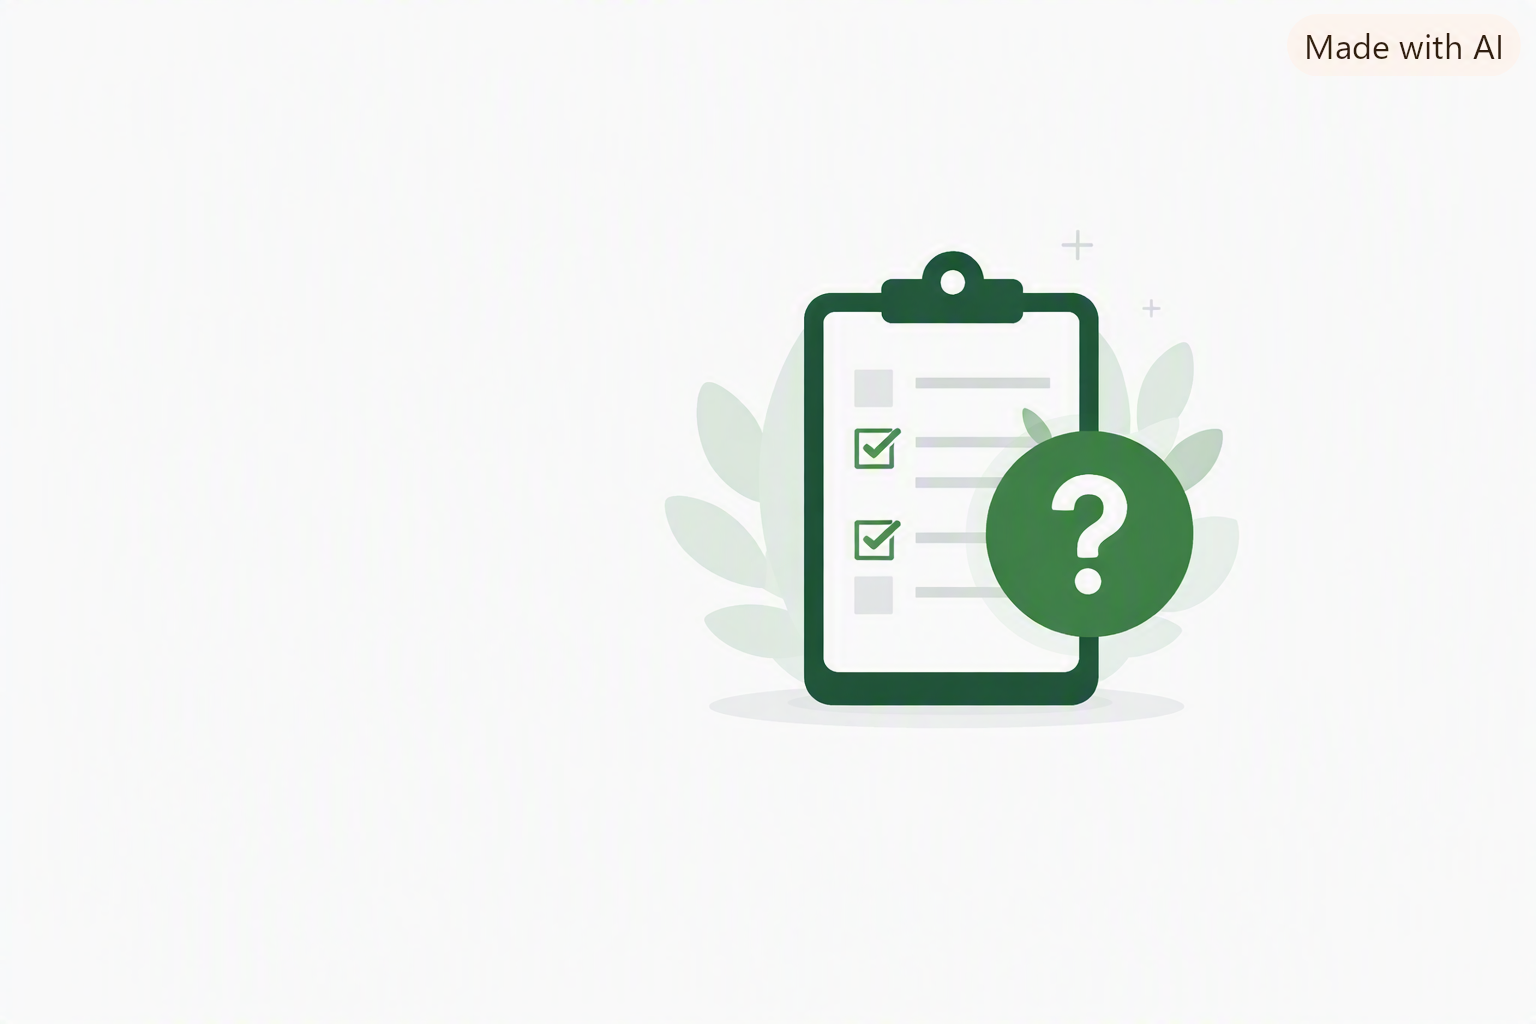
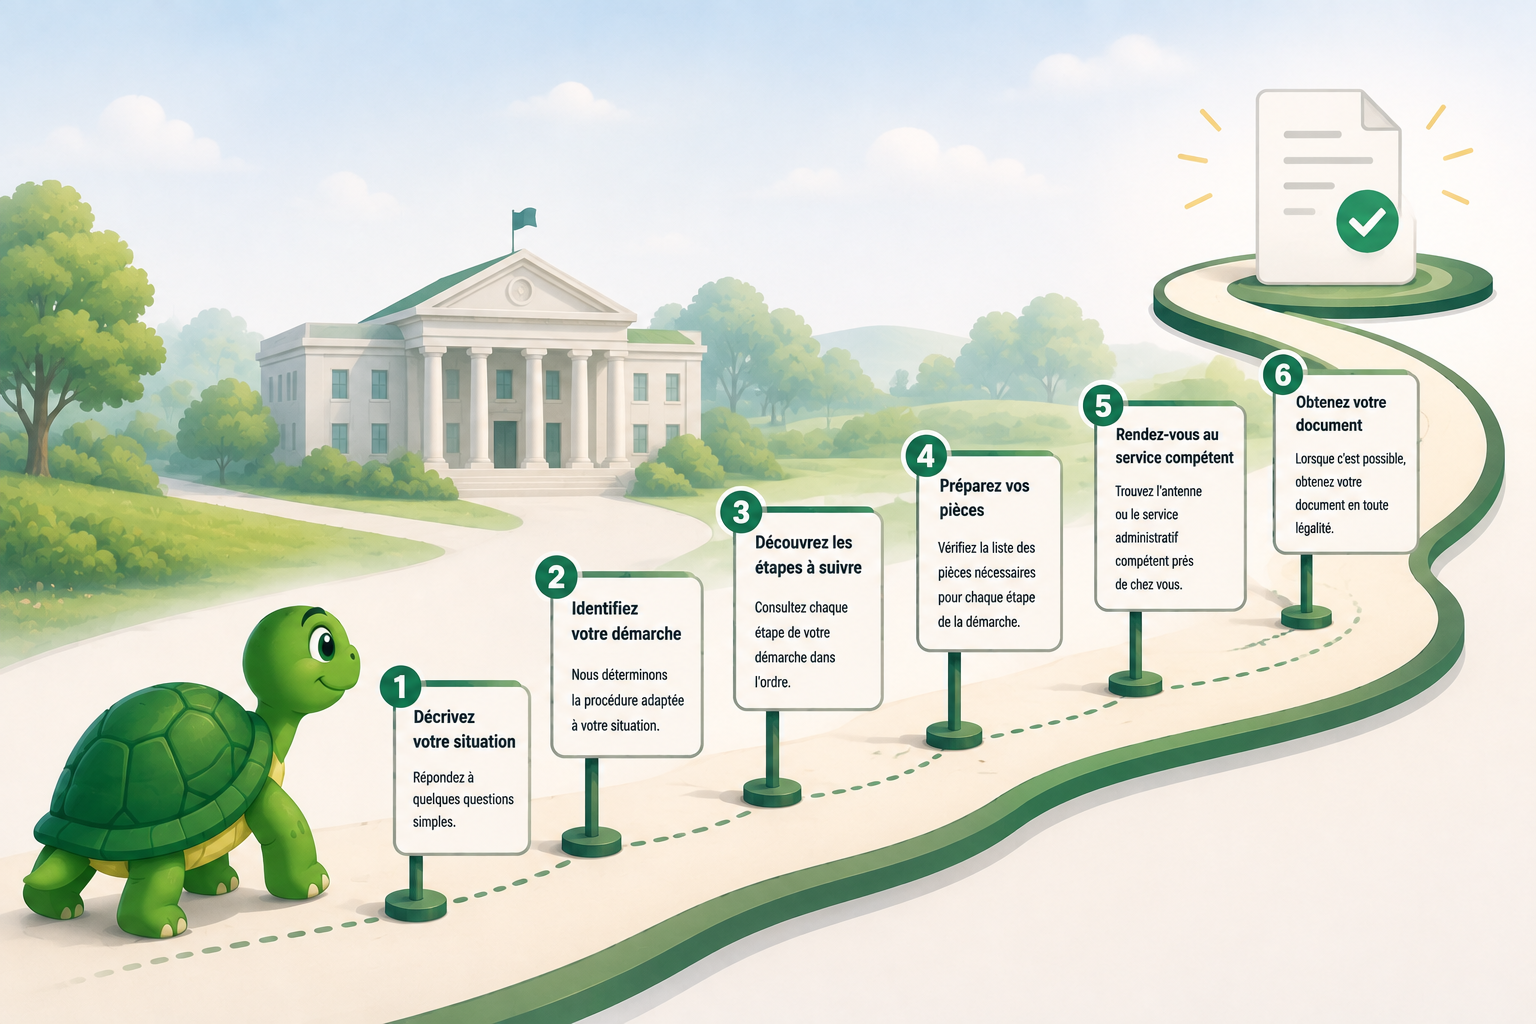
Add Hero section and Bottom Navigation Bar

diff --git a/src/app/(client)/_components/Home/Hero.tsx b/src/app/(client)/_components/Home/Hero.tsx
@@ -2,45 +2,38 @@ import { ArrowRight } from "lucide-react";
 import Image from "next/image";
 import hero_img from "../../../../assets/images/hero.png";
 import Link from "next/link";
-import HowDoesItWork from "./HowDoesItWork";
 import { Hero_infos } from "@/data/GlobalData";
 
 export default function Hero() {
   return (
-    <div className="flex w-full">
-      <div className="wrapper min-h-screen p-2 flex flex-col gap-4">
-        {/* Image */}
-        <div className="relative w-full flex flex-col md:flex-row">
-          {/* Text */}
-          <div className="flex flex-col gap-5 items-start w-full lg:max-w-md h-full lg:ml-15 justify-center max-md:absolute z-20 md:bg-transparent bg-turtle-bg/85">
-            <span className="mb-1 text-4xl">
-              <h1 className="font-semibold text-5xl">{Hero_infos.title}</h1>
-              <h2 className="text-turtle-accent font-semibold">
-                {Hero_infos.subtitle}
-              </h2>
-            </span>
-            <p className="text-base max-w-md">{Hero_infos.description}</p>
-            <Link
-              href={Hero_infos.link.href}
-              className="btn btn-accent w-40 gap-3 text-base"
-            >
-              {Hero_infos.link.label} <ArrowRight className="size-5" />
-            </Link>
-          </div>
-          {/* Image */}
-          <div className="relative w-full h-100">
-            <Image
-              src={hero_img}
-              alt="Hero image"
-              loading="eager"
-              className="object-cover w-full h-full"
-            />
-          </div>
+    <section className="flex relative w-full max-h-screen min-[500px]:h-[80vh] h-[70vh]">
+      <div className="wrapper flex w-full h-full py-5 bg-linear-360 from-secondary to-transparent">
+        {/* Text */}
+        <div className="flex flex-col gap-5 items-start w-full lg:max-w-md h-full justify-center max-w-sm">
+          <span className="mb-1 text-[32px] min-[500px]:text-[40px] md:text-4xl">
+            <h1 className="font-semibold text-5xl min-[500px]:text-6xl">{Hero_infos.title}</h1>
+            <h2 className="text-brand-green-text font-semibold">
+              {Hero_infos.subtitle}
+            </h2>
+          </span>
+          <p className="min-[500px]:text-lg max-w-sm sm:max-w-md">{Hero_infos.description}</p>
+          <Link
+            href={Hero_infos.link.href}
+            className="btn btn-primary w-40 gap-3 text-base"
+          >
+            {Hero_infos.link.label} <ArrowRight className="size-5" />
+          </Link>
         </div>
-
-        {/* How does it work */}
-        <HowDoesItWork />
       </div>
-    </div>
+        {/* Image */}
+        <div className="absolute -z-10 w-full h-full">
+          <Image
+            src={hero_img}
+            alt="Hero image"
+            loading="eager"
+            className="object-cover w-full h-full"
+          />
+        </div>
+    </section>
   );
 }

diff --git a/src/components/shared/BottomNav.tsx b/src/components/shared/BottomNav.tsx
@@ -1,48 +1,23 @@
 "use client";
-import { BellRing, Folder, Home, Info, LucideIcon } from "lucide-react";
+import { links } from "@/data/GlobalData";
+import { LucideIcon } from "lucide-react";
 import Link from "next/link";
-import { useState } from "react";
-
-const datas = [
-  {
-    icon: Home,
-    label: "Accueil",
-    href: "/",
-  },
-  {
-    icon: Folder,
-    label: "Dossiers",
-    href: "/",
-  },
-  {
-    icon: BellRing,
-    label: "Alertes",
-    href: "/",
-  },
-  {
-    icon: Info,
-    label: "À propos",
-    href: "/",
-  },
-];
+import { usePathname } from "next/navigation";
 
 export default function BottomNav() {
   // ! States
-  const [isActive, setIsActive] = useState("Accueil");
+  const pathName = usePathname();
   return (
-    <footer className="fixed md:hidden bottom-0 inset-x-0 bg-turtle-bg border border-turtle-border pt-2 h-15 flex">
-      <div className="wrapper grid grid-cols-4 max-md:w-full gap-2 px-2">
-        {datas.map((link, index) => (
+    <footer className="fixed md:hidden bottom-0 w-full bg-secondary h-18 wrapper grid grid-cols-3 min-[500px]:gap-2 place-items-center">
+        {links.map((link, index) => (
           <Link_
             key={index}
             href={link.href}
             label={link.label}
             icon={link.icon}
-            isActive={isActive}
-            onClick={(car) => setIsActive(car)}
+            pathName={pathName}
           />
         ))}
-      </div>
     </footer>
   );
 }
@@ -51,23 +26,20 @@ const Link_ = ({
   href,
   label,
   icon: Icon,
-  isActive,
-  onClick,
+  pathName,
 }: {
   href: string;
   label: string;
   icon: LucideIcon;
-  isActive: string;
-  onClick: (car: string) => void;
+  pathName: string;
 }) => {
   return (
     <Link
-      onClick={() => onClick(label)}
       href={href}
-      className={`${isActive === label ? "bg-turtle-primary/80 text-white -translate-y-6 pb-3 font-bold rounded-t-4xl p-2" : ""} flex flex-col items-center transition-transform duration-300 ease-in-out`}
+      className={`${pathName === href ? "text-primary *:fill-primary border-t-2 border-primary py-2 font-bold" : "hover:text-primary hover:*:fill-primary hover:border-t-2 border-primary py-2 font-bold"} transition-all duration-300 flex flex-col items-center ease-in-out`}
     >
       <Icon className={`size-7`} />
-      <h3>{label}</h3>
+      <p>{label}</p>
     </Link>
   );
 };

diff --git a/src/components/layout/Header.tsx b/src/components/layout/Header.tsx
@@ -6,17 +6,17 @@ import { NavBar } from "../shared/NavBar";
 
 export default function Header() {
   return (
-    <header className="w-full flex p-4 sticky top-0 z-50 bg-primary backdrop-blur-md max-h-18 overflow-hidden text-muted">
+    <header className="w-full flex py-4 sticky top-0 z-50 bg-primary backdrop-blur-md max-h-18 overflow-hidden text-muted">
       <div className="wrapper w-full flex justify-between">
         {/* Logo */}
         <Link
           href="/"
           className="flex gap-1 lg:gap-2 items-center font-heading"
         >
-          <Image src={Turtle} alt="Logo TurtleGuide" className="w-8 lg:w-12 h-7 lg:h-11" />
+          <Image src={Turtle} alt="Logo TurtleGuide" className="w-10 lg:w-12 h-9 lg:h-11" />
           <span className="flex flex-col leading-5 text-xs lg:text-sm">
             <h1 className="text-xl md:text-[20px] lg:text-[26px] font-bold">TurtleGuide</h1>
-            <p className="text-sm">Votre guide pour chaque demarche</p>
+            <p className="text-xs sm:text-sm">Votre guide pour chaque demarche</p>
           </span>
         </Link>
 

diff --git a/src/components/layout/Footer.tsx b/src/components/layout/Footer.tsx
@@ -2,8 +2,8 @@ import Link from "next/link";
 
 export default function Footer() {
   return (
-    <footer className="flex justify-center py-4 md:mb-0 mb-5 mt-auto border-t border-turtle-border bg-secondary">
-      <div className="wrapper flex gap-2 flex-col justify-between items-center text-turtle-text-muted text-xs text-nowrap">
+    <footer className="flex justify-center py-4 md:mb-0 mb-17 mt-auto border-t border-turtle-border bg-secondary">
+      <div className="wrapper flex gap-2 flex-col justify-between items-center text-turtle-text-muted text-xs">
         <p>
           TurtleGuide. vous guide pour chaque démarche administrative au
           cameroun.

diff --git a/src/components/shared/NavBar.tsx b/src/components/shared/NavBar.tsx
@@ -21,7 +21,7 @@ export const NavBar = () => {
         ))}
       </nav>
 
-      <button className="btn btn-outline">Se connecter</button>
+      <button className="btn btn-outline py-2 px-3 sm:px-4 459678">Se connecter</button>
     </div>
   );
 };
@@ -42,7 +42,7 @@ const Link_ = ({
       href={href}
       className={`${pathName === href? "border-b font-semibold" : "hover:border-b"} flex gap-1 items-center px-2 lg:px-3 py-2 transition-all duration-300 sm:text-sm text-nowrap`}
     >
-      <Icon className="size-5 sm:size-4" />
+      <Icon className="md:size-5 size-4" />
       {label}
     </Link>
   );

diff --git a/src/app/(client)/layout.tsx b/src/app/(client)/layout.tsx
@@ -5,9 +5,9 @@ import React from "react";
 
 export default function layout({ children }: { children: React.ReactNode }) {
   return (
-    <section className="flex flex-col max-w-screen min-h-screen">
+    <section className="flex flex-col min-w-screen min-h-screen w-full ">
       <Header />
-      <main className="wrapper flex flex-col h-full flex-1 w-full">
+      <main className="flex flex-col h-full flex-1 w-full">
         {children}
       </main>
         <Footer />

diff --git a/src/app/layout.tsx b/src/app/layout.tsx
@@ -10,9 +10,9 @@ export default function RootLayout({ children }: LayoutProps<"/">) {
   return (
     <html
       lang="en"
-      className={` h-full antialiased`}
+      className="h-full antialiased"
     >
-      <body className="min-h-full flex flex-col">{children}</body>
+      <body className="min-h-full w-full">{children}</body>
     </html>
   );
 }

diff --git a/src/app/(client)/page.tsx b/src/app/(client)/page.tsx
@@ -6,7 +6,7 @@ import Contact from "./_components/Home/Contact";
 export default function Home() {
   return (
     <section className="flex  flex-col gap-6">
-      {/* <Hero /> */}
+      <Hero />
       {/* Our engaments */}
       {/* <OurEngagements /> */}
       {/* Popular Procedures */}
